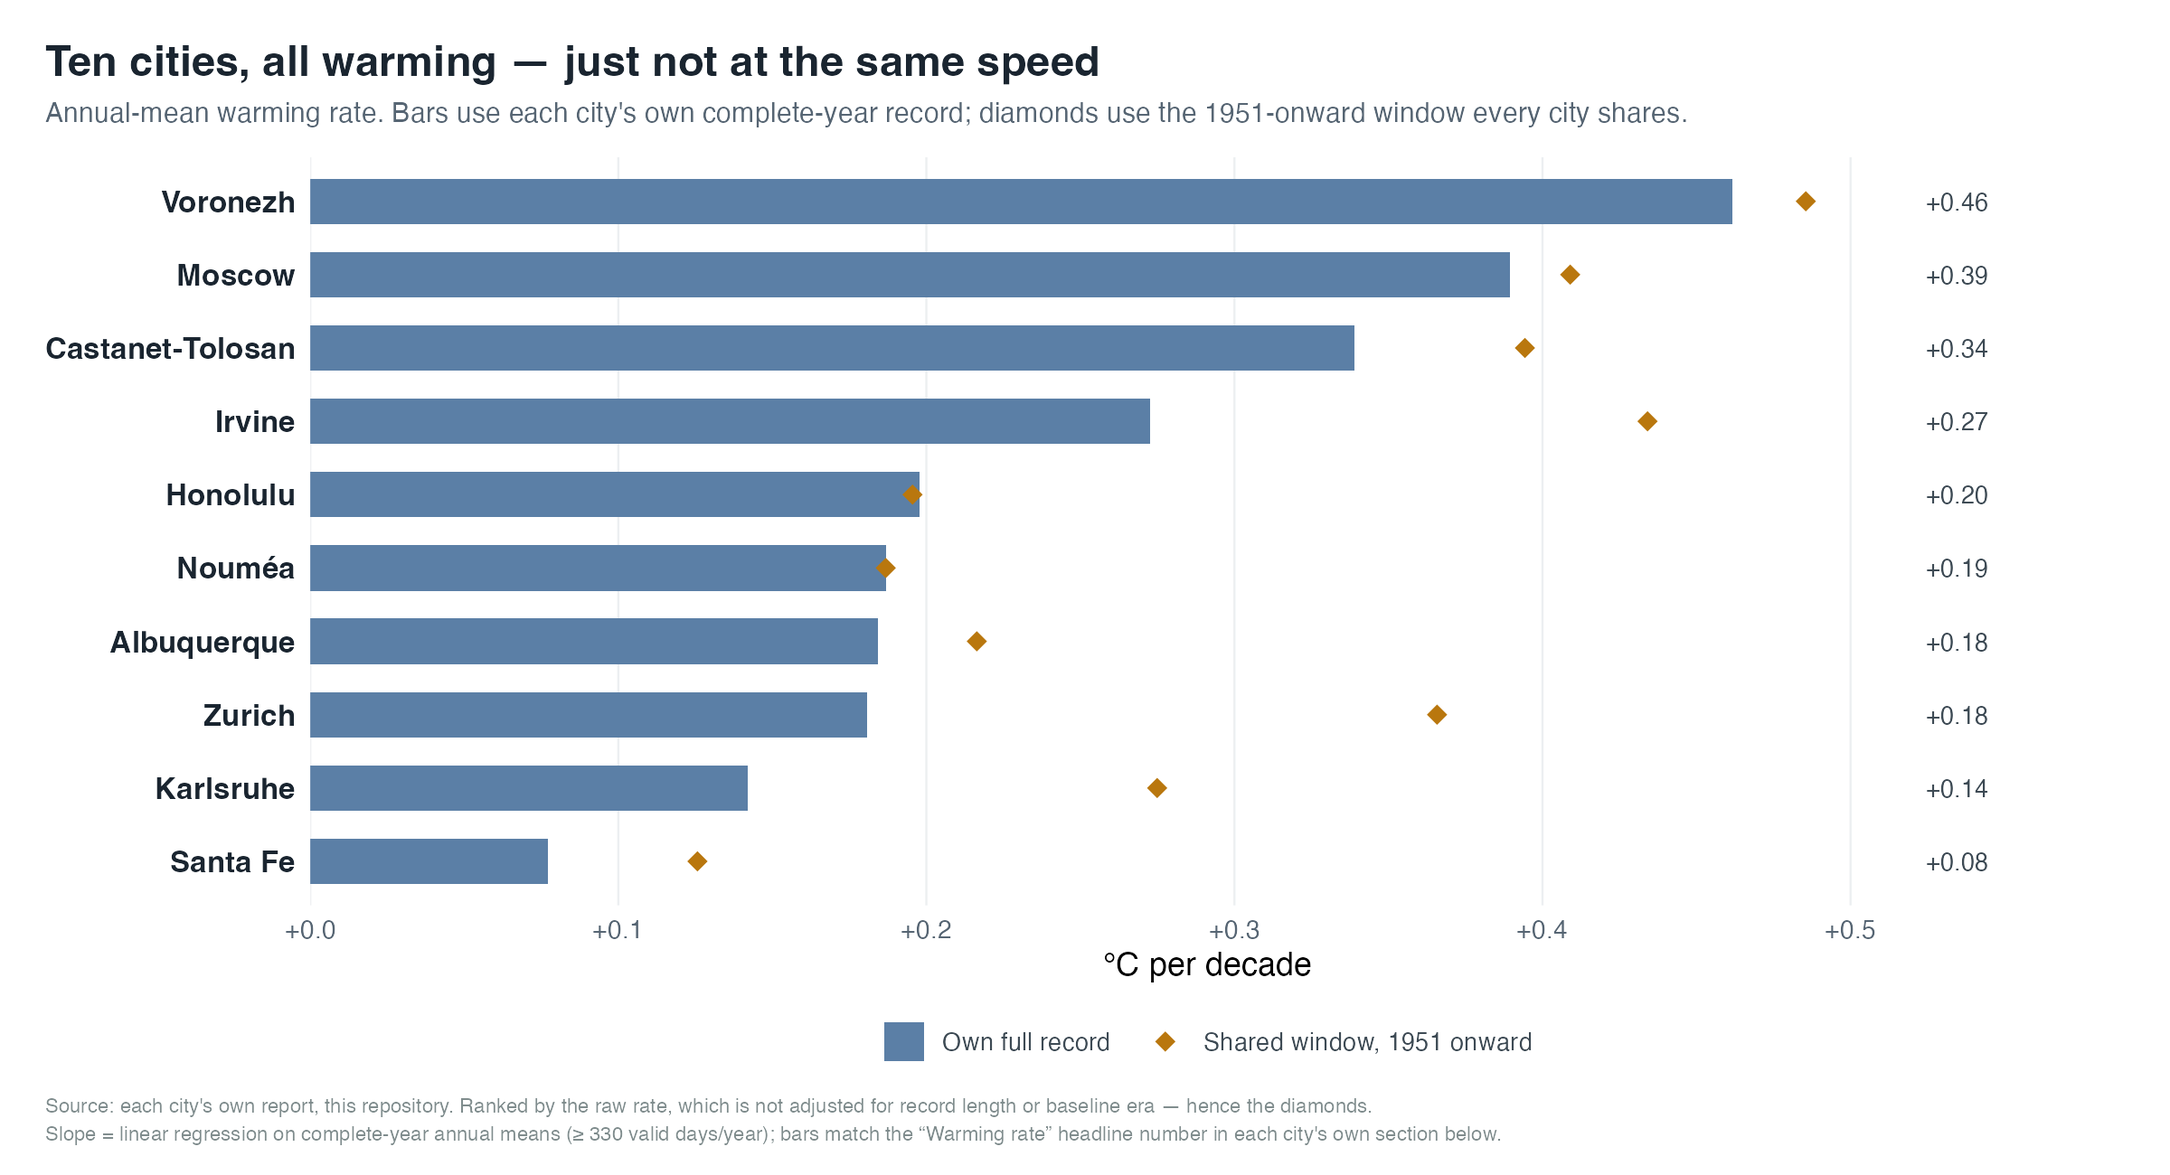
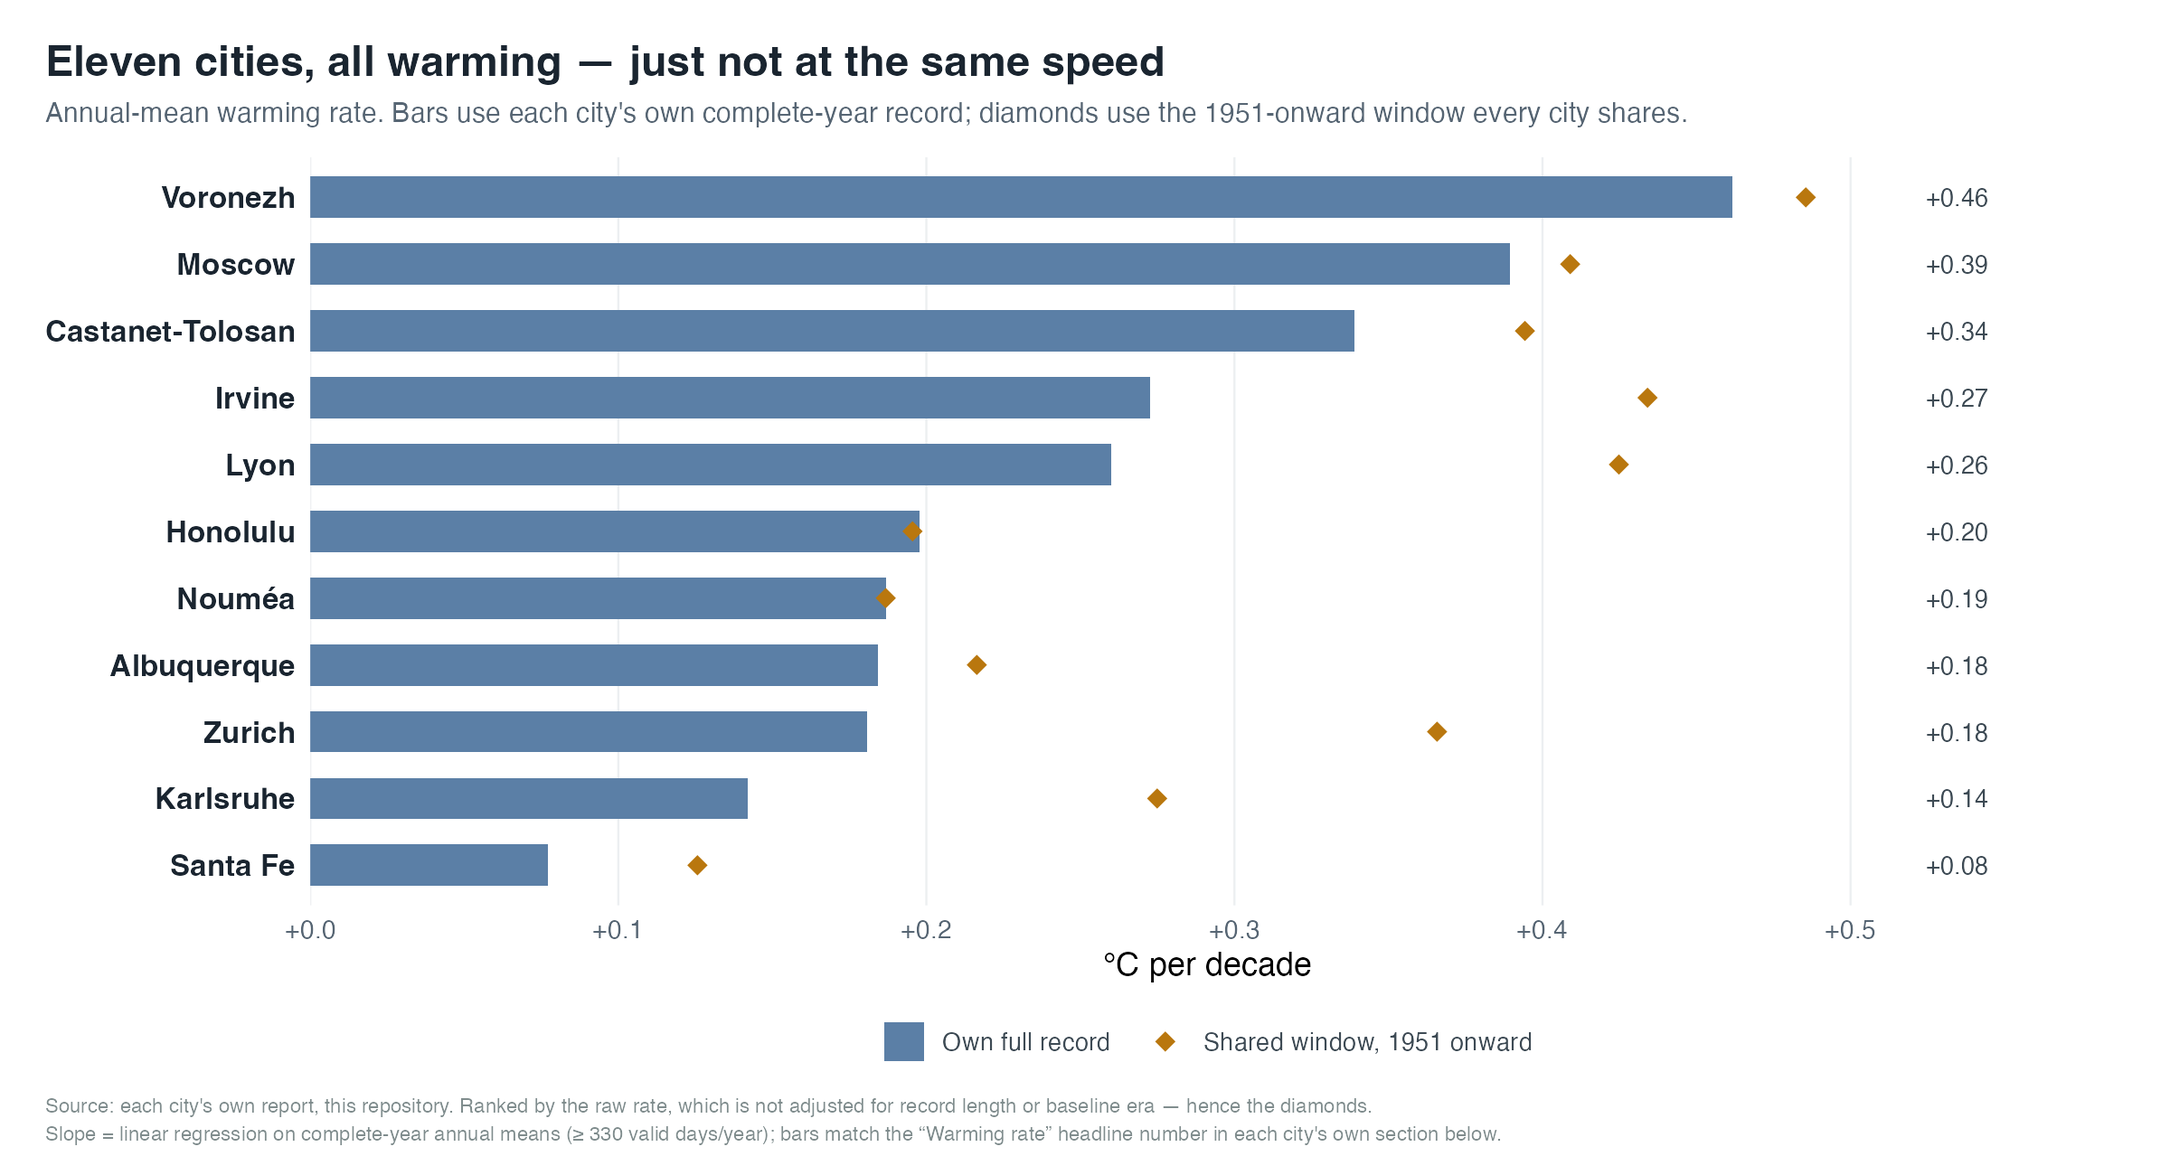
Add Lyon (Rhône, France) as an 11th site
Reference is Lyon-Bron (69029001), the historic airport 7 km east of the
centre: 1921 onward, 105 complete years, and not one incomplete year
inside that span — the cleanest long record of any site here. Warming
+0.26 °C/decade, and 2026 so far is the warmest Jan 1 – Aug 13 in 106
years.

Local comparison is Lyon-Saint-Exupéry (69299001), the current
international airport ~25 km east: 1976 onward, 50 complete years, also
gap-free. Shorter and more recent than the reference, which is the shape
the shared template assumes.

Saint-Genis-Laval (69204002) was checked first and rejected as the
reference. It reaches back to 1881 with 122 complete years, more than
Bron, but those years are not contiguous: 1920-1939 is almost entirely
missing, plus 1900, 1903 and 1991. A gap-free 105-year record is a
sounder basis for a least-squares slope than a 145-year span with a
20-year hole through the middle. Lyon Tête d'Or, a city-centre gauge, has
60 complete rain years but only 17 complete temperature years, so it does
not carry a local temperature series either. Both alternatives and the
reasoning are recorded in R/sites/lyon.R.

Lyon is inserted geographically, not appended: at 4.8°E it sits between
Castanet-Tolosan and Zurich in the chapter order, SITE_ORDER, and the
Data sources, Stations and local-station tables, per the convention noted
under Project layout. Chart title and counts derive from the data, so
"Eleven cities" needed no hand edit.
[…]

diff --git a/README.md b/README.md
@@ -1,9 +1,9 @@
 # Climatudes — local warming, city by city
 
-**Ten cities, five national weather services, one method. Every city is warming.
+**Eleven cities, five national weather services, one method. Every city is warming.
 Rainfall, taken from the same records through the same pipeline, shows nothing
-comparable: at half the cities there is no trend at all, and where there is one
-it runs wetter in some places and drier in others.**
+comparable: at most of these cities there is no trend at all, and where there is
+one it runs wetter in some places and drier in others.**
 
 That contrast is why the rainfall section exists. Every figure and number below
 is regenerated from the weather services' own daily files by a single command —
@@ -13,7 +13,7 @@ consistent temperature signal finds no matching one in precipitation.
 Start with the ranked comparison below; its city links lead to the chapters,
 which all follow the same eight sections in the same order.
 
-Eight sites come from national open-data portals. Moscow and Voronezh come from
+Nine sites come from national open-data portals. Moscow and Voronezh come from
 Roshydromet's AISORI-M, which is **not** openly licensed — personal,
 non-commercial use only (see [Licence](#licence)).
 
@@ -22,7 +22,7 @@ non-commercial use only (see [Licence](#licence)).
 
 <!-- BEGIN COMPARE -->
 
-## All ten cities, side by side
+## All eleven cities, side by side
 
 Every chapter below uses the same variables, the same completeness rule (≥ 330 valid
 days/year) and the same trend method (least-squares on annual means). The numbers here are those
@@ -30,7 +30,7 @@ same headline figures gathered in one place, not recomputed. Two rates are given
 one over its own record, and one over 1951–2025, the longest window every
 city shares. Where they disagree, the raw ranking is partly reporting record length.
 
-![Warming rate compared across all ten cities, ranked fastest to slowest, with a shared-window rate alongside](outputs/compare/figures/warming_rate.png)
+![Warming rate compared across all eleven cities, ranked fastest to slowest, with a shared-window rate alongside](outputs/compare/figures/warming_rate.png)
 
 <sub>Ranked by the raw rate. Santa Fe’s record runs 77 years longer than Nouméa’s, so two similar-looking rates can rest on very different
 amounts of evidence — the record span and the count of complete years are in the table below.</sub>
@@ -41,6 +41,7 @@ amounts of evidence — the record span and the count of complete years are in t
 | [Moscow](#a-warming-climate-seen-from-moscow) | Russia | 1949→2025 (77 yr, 77 complete) | **+0.39** | +0.41 | #1 of 77 — record | 2025, full year | Dec 31, 2025 † |
 | [Castanet-Tolosan](#a-warming-climate-seen-from-castanet-tolosan) | France | 1947→2025 (79 yr, 79 complete) | **+0.34** | +0.39 | #1 of 80 — record | 2026, Jan 1 – Aug 13 · 225 d | Aug 13, 2026 |
 | [Irvine](#a-warming-climate-seen-from-irvine) | USA | 1915→2025 (111 yr, 95 complete) | **+0.27** | +0.43 | #2 of 101 | 2026, Jan 1 – May 31 · 151 d | May 31, 2026 |
+| [Lyon](#a-warming-climate-seen-from-lyon) | France | 1921→2025 (105 yr, 105 complete) | **+0.26** | +0.42 | #1 of 106 — record | 2026, Jan 1 – Aug 13 · 225 d | Aug 13, 2026 |
 | [Honolulu](#a-warming-climate-seen-from-honolulu) | USA | 1950→2025 (76 yr, 76 complete) | **+0.20** | +0.20 | #18 of 84 | 2026, Jan 1 – Aug 11 · 223 d | Aug 11, 2026 |
 | [Nouméa](#a-warming-climate-seen-from-nouméa) | France | 1951→2025 (75 yr, 75 complete) | **+0.19** | +0.19 | #5 of 76 | 2026, Jan 1 – Aug 14 · 226 d | Aug 14, 2026 |
 | [Albuquerque](#a-warming-climate-seen-from-albuquerque) | USA | 1932→2025 (94 yr, 94 complete) | **+0.18** | +0.22 | #1 of 95 — record | 2026, Jan 1 – Aug 11 · 223 d | Aug 11, 2026 |
@@ -66,7 +67,7 @@ The two New Mexico rows deserve a note, because they look like a contradiction. 
 ## How every chapter is built
 
 The comparison above is only meaningful because every city is measured the same way. That
-method is stated here once, rather than repeated in all ten chapters; each chapter adds only
+method is stated here once, rather than repeated in all eleven chapters; each chapter adds only
 its own source, stations and rebuild command.
 
 - **Variables.** Minimum = `TN`, maximum = `TX`, mean = `(TN+TX)/2`, in °C;
@@ -254,6 +255,157 @@ comparison at the top of this page legitimate.
 <sub>Figures and numbers above are generated — edit `R/03_readme.R`, not this block.</sub>
 
 <!-- END REPORT:castanet -->
+
+<!-- BEGIN REPORT:lyon -->
+
+## A warming climate, seen from Lyon
+
+*Météo-France daily temperature records, 1921 to 2025 — plus 2026 so far.*
+
+Météo-France’s daily records for the Lyon area are unambiguous: since
+the early 20th century, daily minimum, maximum and mean temperatures have all risen.
+
+| Headline number | Value |
+|---|---:|
+| Warming rate, mean temperature (Lyon-Bron) | **+0.26 °C / decade** |
+| Total rise over 104 years (1921 → 2025) | **+2.7 °C** |
+| Mean of the last decade (vs 11.3 °C in 1921–1930) | **14.0 °C** |
+| Frost days per year, 1921–1930 → 2016–2025 | **64 → 33** |
+| Hot days (≥ 30 °C) per year, 1921–1930 → 2016–2025 | **19 → 48** |
+| Complete station-years analysed | **155** |
+| 2026 year-to-date (Jan 1 – Aug 13), against 105 prior years | **#1 of 106 — record** |
+
+### The long view: annual means
+
+![Annual mean temperatures around Lyon, 1921 to 2025](outputs/lyon/figures/temperature_series.png)
+
+<sub>Annual means of daily temperatures. The thick curves are LOESS smoothings that
+highlight the climate trend; the points are annual means. The green series (Lyon-Saint-Exupéry) is Lyon's current international airport, about 25 km east of the city. It tracks the long Lyon-Bron reference mean closely.</sub>
+
+At Lyon-Bron — the station with the longest record (1921→2025) — the annual
+mean temperature rises by **+0.26 °C per decade**, about **+2.7 °C** over the
+whole period. The local Lyon-Saint-Exupéry station only covers 1976→2025. Its slope over that shorter, more recent window is steeper (+0.63 °C/decade), and so is Lyon-Bron’s over the same years (+0.59 °C/decade): recent decades warm faster, and over these years the two stations agree to within 0.04 °C/decade.
+
+
+
+### This year, against every year before it
+
+![Per-year mean over the same Jan-to-cutoff window, as a departure from the 1921–2025 mean, with 2026 the largest bar](outputs/lyon/figures/temperature_ytd.png)
+
+<sub>Each bar is a year’s mean over the <em>same window</em> — <strong>Jan 1 – Aug 13</strong> —
+shown as its departure from the 1921–2025 mean (12.4 °C): red above, blue
+below. Holding the part-of-year identical is what makes one year comparable with another. The bars swing from blue to red over
+the decades — and 2026 is the tallest of all.</sub>
+
+Measured like-for-like, **2026 is the warmest Jan 1 – Aug 13 in 106 years** at Lyon-Bron: **15.6 °C** — +0.4 °C above the previous record (2020, 15.2 °C) and **+3.3 °C above the 1921–2025 mean** (12.4 °C).
+
+> [!NOTE]
+> A part-year mean cannot be compared with other years' full-year means. That is why 2026 appears on the long-view chart above only as a marked, hollow "to date" point — a part-year mean on an axis of full-year means — while its like-for-like standing is the chart here.
+
+### Every year, day by day
+
+![Daily temperature climatology, every year January to December, hot years red and cold years blue](outputs/lyon/figures/temperature_climatology.png)
+
+<sub>Each thin line is a single year’s daily mean temperature from January to December
+(1920–2025, 106 years), smoothed with a centred
+<strong>3-day rolling mean</strong> (each day = the average of itself
+±1 day) to tame day-to-day jitter while keeping the shape. The dark line
+is the long-term daily normal; the bold red line is <strong>2026 so far</strong>.
+Years whose smoothed daily mean ever rose above <strong>+30 °C</strong> are
+highlighted in red and labelled; years that ever fell below
+<strong>-5 °C</strong> in blue.</sub>
+
+> [!NOTE]
+> **Hottest and coldest years.** Measured on the smoothed daily-mean curve,
+> **6** years pushed above +30 °C (1947, 1983, 2003, 2018, 2019, 2023)
+> while **44** years dropped below -5 °C (first in 1920, most recently 2003 and 2012).
+> Years hitting both extremes: 1947 and 2003.  <sub>(If the threshold is applied instead to the raw, unsmoothed daily mean, 1947 and 2003 each touch both extremes.)</sub>
+
+### The record days
+
+The single most extreme days in each station’s record. “Hottest” is the highest daily
+maximum (TX), “coldest” the lowest daily minimum (TN).
+
+| Station (record span) | Extreme | Date | Min (TN) | Max (TX) |
+|---|---|---|---:|---:|
+| Lyon-Bron <sub>1920–2026</sub> | Hottest 🔥 | 2023-08-24 | 21.6 | **41.4** |
+| Lyon-Bron <sub>1920–2026</sub> | Coldest ❄ | 1938-12-22 | **-24.6** | -7.2 |
+| Lyon-Saint-Exupéry <sub>1975–2026</sub> | Hottest 🔥 | 2003-08-13 | 22.8 | **39.9** |
+| Lyon-Saint-Exupéry <sub>1975–2026</sub> | Coldest ❄ | 1985-01-07 | **-20.3** | -8.4 |
+
+At Lyon-Bron, the all-time heat (2023-08-24) postdates the all-time cold (1938-12-22) by 85 years.
+
+> [!NOTE]
+> **Why Lyon-Saint-Exupéry?** Lyon-Saint-Exupéry (station 69299001), the city's international airport about 25 km east, has recorded temperature since 1976 with no missing years and provides the local comparison. Lyon-Bron (station 69029001), the historic airport 7 km east of the centre, provides the trend: 1921 onward with 105 complete years and no incomplete year in between. Saint-Genis-Laval, in the southern suburbs, reaches back further — to 1881 — but 1920–1939 is almost entirely missing from it, so a gap-free century at Bron is the sounder basis for a slope than a longer record with a hole through its middle.
+
+### The last decade (Lyon-Bron)
+
+| Year | Min (TN) | Max (TX) | Mean |
+|---|---:|---:|---:|
+| 2016 | 8.8 | 17.6 | **13.2** |
+| 2017 | 8.7 | 18.5 | **13.6** |
+| 2018 | 9.9 | 19.1 | **14.5** |
+| 2019 | 9.2 | 19.0 | **14.1** |
+| 2020 | 9.6 | 19.6 | **14.6** |
+| 2021 | 8.5 | 17.6 | **13.1** |
+| 2022 | 9.4 | 19.8 | **14.6** |
+| 2023 | 9.3 | 19.7 | **14.5** |
+| 2024 | 9.4 | 18.5 | **14.0** |
+| 2025 | 9.0 | 18.8 | **13.9** |
+| 2026 *(to date)* | 9.6 | 21.6 | **15.6** |
+
+### Frost days down, hot days up
+
+A degree of warming is abstract; a count of days is not. Lyon-Bron’s first
+complete decade (1921–1930) against its last (2016–2025):
+
+| Threshold days per year | 1921–1930 | 2016–2025 |
+|---|---:|---:|
+| Frost days (min < 0 °C) | 64 | **33** |
+| Hot days (max ≥ 30 °C) | 19 | **48** |
+| Very hot days (max ≥ 35 °C) | 3 | **10** |
+| Tropical nights (min ≥ 20 °C) | 2 | **16** |
+
+<sub>Counts of days per year crossing each threshold, averaged over the first and last
+complete decades of the record.</sub>
+
+### What about the rain?
+
+Temperature is only half of a climate. Over 1888–2025 (109 years),
+annual precipitation at Lyon-Bron shows **no statistically significant trend**.
+
+![Annual rainfall totals around Lyon](outputs/lyon/figures/rain_series.png)
+
+<sub>Annual total precipitation. The dashed line is Lyon-Bron’s long-term mean
+(823 mm/yr); the thick curves are LOESS smoothings. The year-to-year swings are
+large — from 426 mm (1921) to 1231 mm (1960) —
+but the long-run slope (-2 mm/decade) is flat and not significant (p = 0.55).</sub>
+
+The same daily records that carry a strong warming signal carry *no* comparable signal in how much it rains: annual totals swing widely from year to year around a flat long-run mean.
+
+![Monthly rainfall through the year at Lyon-Bron, one line per year](outputs/lyon/figures/rain_climatology.png)
+
+<sub>Rain through the year: each grey line is one year’s monthly totals, the dark line the
+long-term monthly normal, the bold blue line 2026 so far. October is the
+wettest month on average (88 mm), February the driest
+(46 mm) — but the spread between years dwarfs the seasonal cycle, which is exactly why no annual trend emerges.</sub>
+
+### Methodology
+
+Only what is specific to this city is listed here. The variables, completeness rule,
+smoothing, thresholds and trend method are the same for every city and are stated once, in
+[How every chapter is built](#how-every-chapter-is-built) — which is also what makes the
+comparison at the top of this page legitimate.
+
+- **Source.** Météo-France — Données climatologiques de base – quotidiennes, Rhône, France. Full citation
+  in [Data sources](#data-sources) below.
+- **Stations.** Lyon-Saint-Exupéry (69299001) and Lyon-Bron (69029001).
+- **Rebuild this chapter.** `SITE=lyon make all` — every figure and number above is
+  regenerated from the source data on each run.
+
+<sub>Figures and numbers above are generated — edit `R/03_readme.R`, not this block.</sub>
+
+<!-- END REPORT:lyon -->
 
 <!-- BEGIN REPORT:zurich -->
 
@@ -1615,6 +1767,7 @@ only, which is why their raw exports are never committed to this repository:
 | Site | Source | Scope | Licence |
 |---|---|---|---|
 | Castanet-Tolosan | Météo-France — *Données climatologiques de base – quotidiennes* | dept. 31 (Haute-Garonne), `RR-T-Vent` daily files, three eras (`avant-1949`, `previous-1950-2024`, `latest-2025-2026`) | Licence Ouverte / Open Licence (Etalab 2.0) |
+| Lyon | Météo-France — *Données climatologiques de base – quotidiennes* | dept. 69 (Rhône), `RR-T-Vent` daily files, same three eras | Licence Ouverte / Open Licence (Etalab 2.0) |
 | Zurich | MeteoSwiss — Open Government Data | `ogd-nbcn` (homogeneous climate stations) + `ogd-smn` (automatic weather stations) | MeteoSwiss Open Data (attribution: "Source: MeteoSwiss") |
 | Karlsruhe | DWD (Deutscher Wetterdienst) — Climate Data Center | `kl` (daily station observations) + `more_precip` (precipitation only) | Creative Commons BY 4.0 |
 | Moscow | Roshydromet / RIHMI-WDC — AISORI-M | Сутки → TTTR (temp. + precip.), WMO 27612, manually exported (login-gated, no stable URL) | Not openly licensed — Rospatent 2019621537; personal, non-commercial use only |
@@ -1635,6 +1788,8 @@ Full dataset URLs and citation text are in each site's report above and in
 |---|------|------|--------|------|
 | Castanet-Tolosan | `31035001` | Auzeville-Tolosane-INRAE | 2002→ | Local station, on the edge of Castanet-Tolosan (INRAE/ENSAT campus) |
 | Castanet-Tolosan | `31069001` | Toulouse-Blagnac | 1947→ | Long regional reference; used for the trend and the daily climatology |
+| Lyon | `69299001` | Lyon-Saint-Exupéry | 1976→ | Local station, the current international airport ~25 km east; 50 complete years, no gaps |
+| Lyon | `69029001` | Lyon-Bron | 1921→ | Long reference, the historic airport 7 km east — 105 complete years and no incomplete year in between |
 | Zurich | `REH` | Zürich-Affoltern | 1961→ (temp. 1978→) | Local station, in Zurich's Affoltern district (MeteoSwiss automatic network) |
 | Zurich | `SMA` | Zürich-Fluntern | 1864→ (TN/TX 1881→) | Long regional reference; MeteoSwiss's homogeneous series for the trend and climatology |
 | Karlsruhe | `02523` | Karlsruhe-Wolfartsweier | 1931→ | Local station — **rainfall only**, no temperature record near Grötzingen (see below) |
@@ -1665,6 +1820,7 @@ target town, so every pairing is a compromise. The compromises:
 | Site | Local station | Compromise |
 |---|---|---|
 | Castanet-Tolosan | Auzeville-Tolosane-INRAE | None to speak of — it sits on the town boundary. |
+| Lyon | Lyon-Saint-Exupéry | None — gap-free since 1976, though much shorter than the reference. Saint-Genis-Laval reaches back to 1881 but is missing 1920–1939. |
 | Zurich | Zürich-Affoltern | Affoltern is outside MeteoSwiss's homogeneous long-term network, so this is the closest full station. |
 | Karlsruhe | Karlsruhe-Wolfartsweier | Rainfall only. The nearest station that also measured temperature (Augustenberg, under 1 km from Grötzingen) closed in 1985. |
 | Moscow, Voronezh | *none* | Exported from AISORI-M with one WMO index each; there is no second station to pair. |
@@ -1694,6 +1850,7 @@ climatudes/
 │   │   └── narrative.R        shared report prose/number logic (build_common_fills())
 │   ├── sites/
 │   │   ├── castanet.R         Castanet-Tolosan: stations, paths, citation, narrative facts
+│   │   ├── lyon.R             Lyon: same, for Météo-France dept. 69
 │   │   ├── zurich.R           Zurich: same, for MeteoSwiss
 │   │   ├── karlsruhe.R        Karlsruhe: same, for DWD
 │   │   ├── moscow.R           Moscow: same, for Roshydromet/AISORI-M (manual export)
@@ -1836,8 +1993,8 @@ Source data:
 
 Grouped by provider, since the licence follows the source rather than the city:
 
-- Castanet-Tolosan and Nouméa © Météo-France, *Licence Ouverte / Open Licence
-  (Etalab 2.0)*.
+- Castanet-Tolosan, Lyon and Nouméa © Météo-France, *Licence Ouverte / Open
+  Licence (Etalab 2.0)*.
 - Zurich © MeteoSwiss Open Data — attribution required: "Source: MeteoSwiss".
 - Karlsruhe © DWD (Deutscher Wetterdienst), *Creative Commons BY 4.0*.
 - Irvine, Albuquerque, Santa Fe and Honolulu — NOAA / NCEI GHCN-Daily, U.S.
